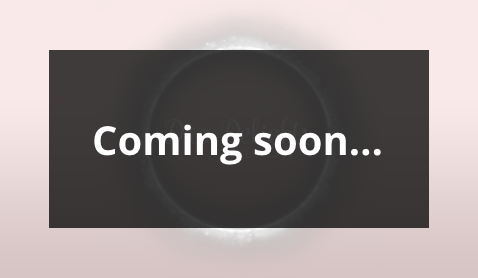
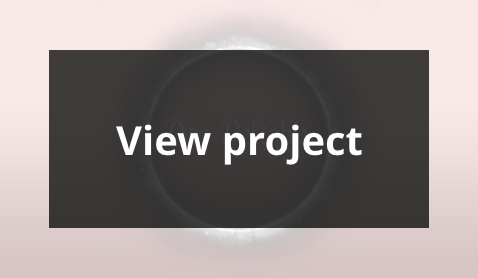
New project added
Duodelights image change, behance link added and re-organised listing.

Changed region(s): [[0.1757, 0.4317, 0.7908, 0.6043]]

diff --git a/index.html b/index.html
@@ -48,10 +48,10 @@
 					<h1>Porfolio</h1>
 					<div class="project-case">
 						<div class="project">
-							<img src="images/duodelights.png" onmouseover="this.src='images/duodelights-rollover.png'" onmouseout="this.src='images/duodelights.png'" width="200px;" height="115px;">
+							<img src="images/cv-library.png" onmouseover="this.src='images/cv-library-rollover.png'" onmouseout="this.src='images/cv-library.png'" class="rollover" width="200px;" height="115px;">
 						</div>
 						<div class="project">
-							<img src="images/cv-library.png" onmouseover="this.src='images/cv-library-rollover.png'" onmouseout="this.src='images/cv-library.png'" class="rollover" width="200px;" height="115px;">
+							<img href="https://www.behance.net/gallery/106569469/Duo-Delights-Bakery" src="images/duodelights.png" onmouseover="this.src='images/duodelights-rollover.png'" onmouseout="this.src='images/duodelights.png'" width="200px;" height="115px;">
 						</div>
 						<div class="project">
 							<a href="https://www.behance.net/gallery/75054853/Personal-Re-Branding-Project" target="_blank"><img src="images/rebranding.png" onmouseover="this.src='images/rebranding-rollover.png'" onmouseout="this.src='images/rebranding.png'" class="rollover" width="200px;" height="115px;"></a>
